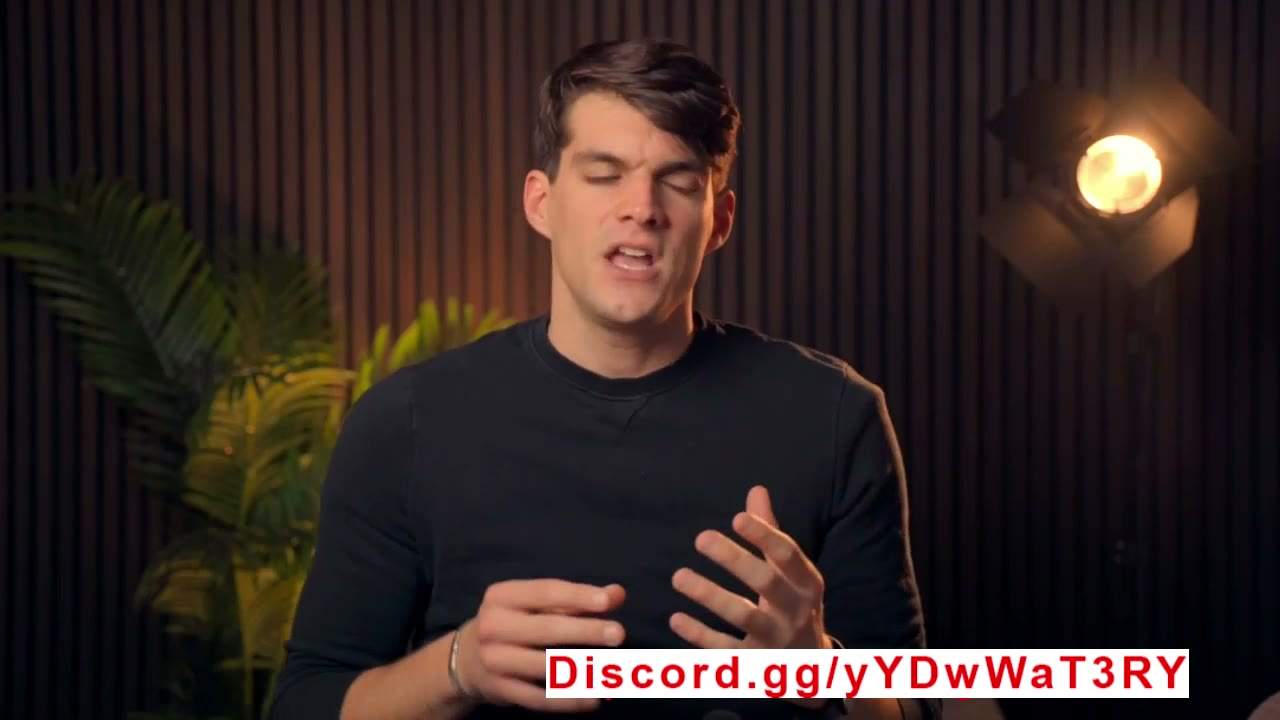
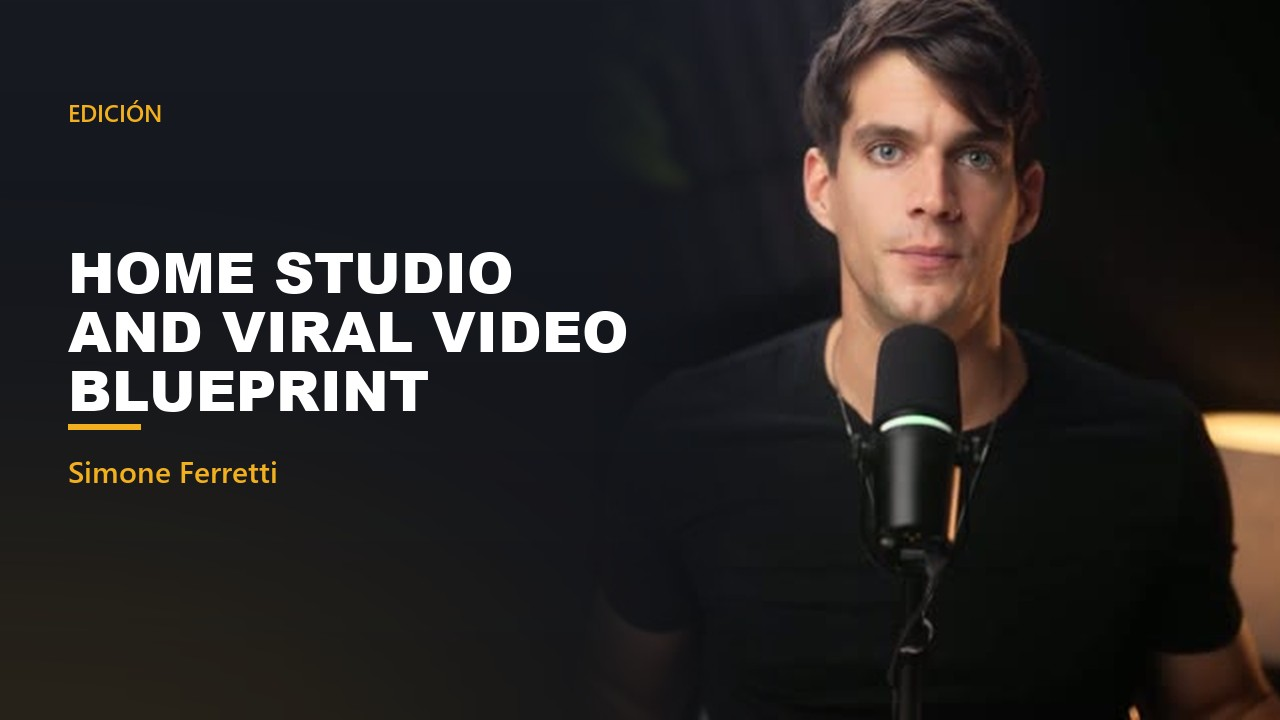
Las 13 portadas: la foto del autor como PIEZA del diseno, no como alternativa
Martin: «las portadas estan feas. Tienes que buscar una foto del autor si hay tipo
portada, y sino, disenarla».

POR QUE ESTABAN FEAS. El generador viejo miraba 4 offsets fijos del PRIMER video y elegia
el de mas CONTRASTE. Un slide blanco con texto negro tiene mas contraste que una cara, asi
que el criterio no fallaba: prefiere activamente lo que no sirve. Salio un frame con
«Discord.gg/…» en rojo cruzando la imagen —la marca del que pirateo el curso—, una captura
de Zoom con la tira de participantes, y un documento compartido con otra marca de agua.

Y no se arregla con otro desempate: ninguna metrica de imagen sabe que ese texto rojo es
una marca de agua y no el titulo. Eso se ve MIRANDO.

EL MOLDE. Mirando las 30 portadas buenas del portal —las que vienen de la plataforma— son
todas lo mismo: fondo oscuro, titulo grande, el autor recortado a un lado, un acento. O sea
que foto y diseno NO son dos caminos: la foto es una PIEZA del diseno. Con un molde unico,
el curso con buen plano del autor lo usa de mitad derecha y el que no lo tiene queda
tipografico con monograma — y los dos se leen del mismo portal, que es lo que una grilla de
132 tarjetas necesita. Quedaron 7 con foto y 6 tipograficas.

COMO SE ELIGIO. 12 candidatas por curso, de clases DISTINTAS (la bienvenida es la clase que
menos representa a un curso), hoja de contacto numerada, y una corrida que las mira: un
agente elige y otro audita la elegida a tamano completo buscando marcas de agua.
[…]

diff --git a/scripts/curso-portada-disenar.py b/scripts/curso-portada-disenar.py
@@ -159,7 +159,9 @@ if not HAY_FOTO:
 
 # ── El texto ─────────────────────────────────────────────────────────────────────────────
 X = 68
-tope = ANCHO_TEXTO - 40
+# El tope es hasta DONDE PUEDE LLEGAR el texto, y el texto arranca en X: sin restar X, la
+# ultima linea se metia 28 px dentro de la franja del monograma. Se mide desde X.
+tope = ANCHO_TEXTO - X - 24
 
 cejilla = (a.cejilla or '').upper()
 y = 96
